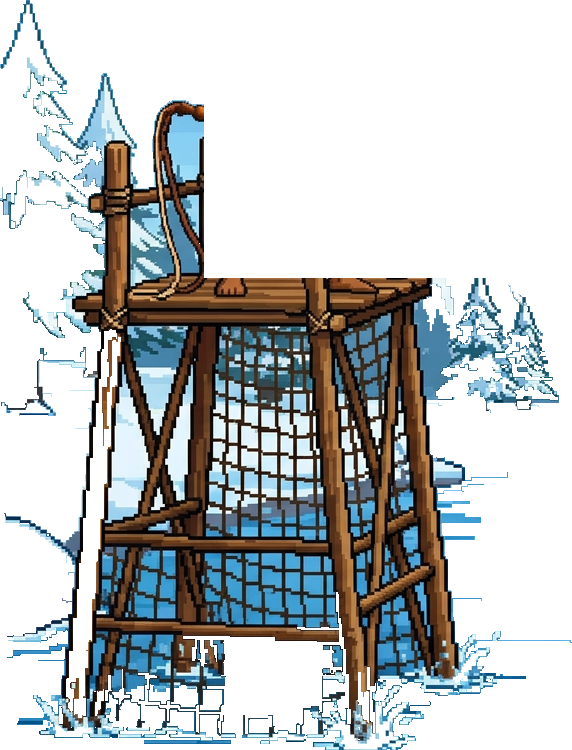
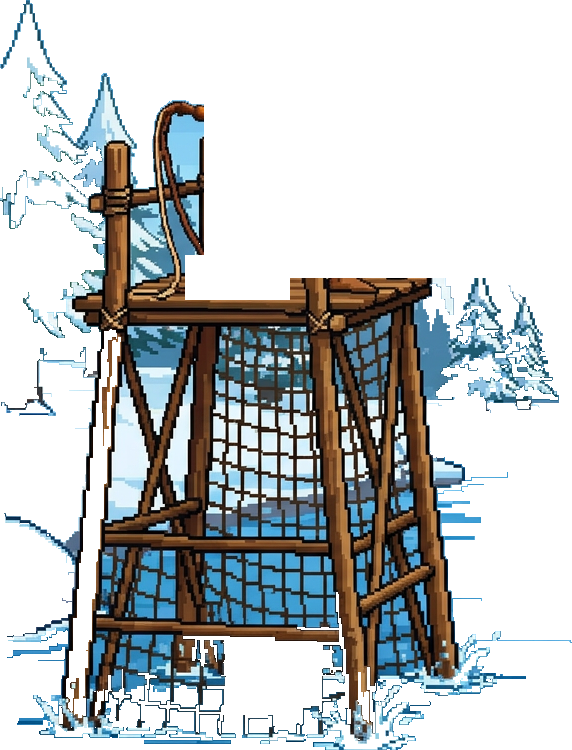
Polish pass: alignment, visibility, and per-wave playable backgrounds
Addresses a round of feedback from playing the recent art integrations
live:

- Fixed a real bug: player_tower.png's character-erasure box cut off a
  few pixels short, leaving two stray skin-toned foot fragments sitting
  on the platform surface. Erased directly, re-verified clean.
- Spear-to-reticle alignment: PLAYER_FIG_SPECS now carries each pose's
  actual measured throw angle (renderAngle) separate from its bucket-
  selection label. drawFigure() applies a small corrective rotation
  (target - renderAngle, capped +-20deg) around the same foot pivot the
  six-bucket system already uses, closing most of the gap between the
  sprite's baked-in angle and the true aim direction without
  reintroducing the "collapsing forward" look an uncapped version of
  this same rotation caused two commits back.
- Reticle redesign: replaced a plain 6px gold X with no outline (invisible
  against light/gold backgrounds) with a ring+ticks reticle drawn in a
  dark-halo-then-gold two-pass, the same idiom haloText() already uses.
- Pier bulk-up: cropped a net-braced leg section directly from
  player_tower.png (miner_pier_legs.png) and draw it under the pier's
  post, since the pier reference photo only showed a bare stick. Same
  source art, so the visual-family match is guaranteed rather than
  approximated.
- The big one: backgrounds are now the live PLAY scene, not just the
  WAVEINTRO card. drawSky() checks waveBackdrop() before SPR.sceneImg;
[…]

Changed region(s): [[0.2972, 0.3373, 0.5052, 0.3987]]

diff --git a/claimjumper/index.html b/claimjumper/index.html
@@ -128,10 +128,15 @@ function waveBackdrop(){
 // Loaded independently, same graceful-fallback spirit as SKINS/WAVE_BGS: if
 // either fails to load, drawFigure/drawPlatform fall back to their existing
 // rendering rather than breaking.
-const PLAYER_ART = { tower: null, pier: null };
+const PLAYER_ART = { tower: null, pier: null, pierLegs: null };
 (function loadPlayerArt(){
   const t = new Image(); t.onload = () => { PLAYER_ART.tower = t; }; t.src = 'assets/player_tower.png';
   const p = new Image(); p.onload = () => { PLAYER_ART.pier = p; }; p.src = 'assets/miner_pier.png';
+  // The pier reference photo only showed a bare post -- cropped from the
+  // SAME tower art (a net-braced leg section) to give it real structural
+  // weight instead of reading as a thin stick, per direction ("get it
+  // looking more like the fishing tower").
+  const pl = new Image(); pl.onload = () => { PLAYER_ART.pierLegs = pl; }; pl.src = 'assets/miner_pier_legs.png';
 })();
 
 // Six purpose-made angle-bucket poses for the player figure (superseding
@@ -144,13 +149,21 @@ const PLAYER_ART = { tower: null, pier: null };
 // 8-88 aim range, assigned by the set's naming order (up_soft -> shallowest,
 // down_steep -> steepest) rather than back-measuring the art's rendered
 // angle, which was too imprecise to trust at this scale.
+// renderAngle is that back-measurement anyway (hand-to-tip vector, degrees,
+// same convention as sp.angle) -- used only for the small corrective spear
+// rotation in drawFigure() below, not for bucket selection. The six poses'
+// own baked-in throw angle only spans roughly -14 to +26 degrees regardless
+// of which bucket, well short of the game's 8-88 range, so at extreme aim
+// angles the weapon reads as barely moving while the reticle sweeps the
+// full range -- the correction closes part of that gap without the whole
+// body swinging (capped, see drawFigure()).
 const PLAYER_FIG_SPECS = [
-  { file:'assets/figure_up_soft.png',   angle:8,  anchorX:195, anchorY:375 },
-  { file:'assets/figure_level.png',     angle:24, anchorX:212, anchorY:363 },
-  { file:'assets/figure_down_soft.png', angle:40, anchorX:222, anchorY:360 },
-  { file:'assets/figure_down_mid.png',  angle:56, anchorX:205, anchorY:352 },
-  { file:'assets/figure_down_hard.png', angle:72, anchorX:162, anchorY:347 },
-  { file:'assets/figure_down_steep.png',angle:88, anchorX:197, anchorY:352 },
+  { file:'assets/figure_up_soft.png',   angle:8,  anchorX:195, anchorY:375, renderAngle:-14 },
+  { file:'assets/figure_level.png',     angle:24, anchorX:212, anchorY:363, renderAngle:-3 },
+  { file:'assets/figure_down_soft.png', angle:40, anchorX:222, anchorY:360, renderAngle:7 },
+  { file:'assets/figure_down_mid.png',  angle:56, anchorX:205, anchorY:352, renderAngle:16 },
+  { file:'assets/figure_down_hard.png', angle:72, anchorX:162, anchorY:347, renderAngle:24 },
+  { file:'assets/figure_down_steep.png',angle:88, anchorX:197, anchorY:352, renderAngle:26 },
 ];
 const PLAYER_FIG_BUCKETS = [];
 (function loadPlayerFigBuckets(){
@@ -494,6 +507,7 @@ let G = {
   banner:null,
   portraitFlinch:0, // v4.1: repurposed as heartFlinch's backing timer (kept the field name stable, see drawHearts)
   continueT:0,
+  towerCx:65, towerRot:0, pierCx:370, pierRot:0,
 };
 let prevSpace = false, prevA = false;
 
@@ -525,6 +539,16 @@ function startWave(){
   G.spawnTimer = 30; G.spawned = 0;
   G.minerTimer = G.w.minerFirst*30;
   G.banner = null;
+  // Per-wave visual variety for the tower/pier art (position + a small
+  // tilt), so waves don't all look like the exact same photo with a
+  // different sky behind it -- per direction. Kept modest and re-rolled
+  // once per wave, not touching any of the actual gameplay coordinates
+  // (OBS_X, PLAYER_MIN/MAX, the miners' spawn tx range) so movement,
+  // spawning, and collision are unaffected -- only where the art is drawn.
+  G.towerCx = 65 + rnd(-8, 8);
+  G.towerRot = rnd(-6, 6) * D2R;
+  G.pierCx = 370 + rnd(-15, 15);
+  G.pierRot = rnd(-8, 8) * D2R;
   if (G.wave===6) G.vinegarSecondPlanned = Math.random()<0.15; // GDD §7.1 optional stretch
   G.mode='WAVEINTRO'; G.t=0;
 }
@@ -1215,6 +1239,15 @@ function drawSky(){
   // stretched independently distorted the scene's actual proportions. This
   // is one image at one uniform scale (the source crop's aspect ratio was
   // chosen to exactly match LW:LH, so there's no stretch in either axis).
+  // Per-wave background stills, now the live PLAY scene too (not just the
+  // WAVEINTRO card) -- each stage gets its own real backdrop rather than
+  // one fixed scene throughout. Checked before SPR.sceneImg so it takes
+  // over the exact same "whole scene in one image" role.
+  const bg = waveBackdrop();
+  if (bg){
+    ctx.drawImage(bg, 0, 0, LW, LH);
+    return;
+  }
   if (SPR.ready && SPR.sceneImg){
     ctx.drawImage(SPR.sceneImg, 0, 0, LW, LH);
     return;
@@ -1224,6 +1257,10 @@ function drawSky(){
   ctx.fillStyle = g; ctx.fillRect(0,0,LW,WATER_Y+4);
 }
 function drawCanyonWalls(){
+  // Skip the corner rock-wall accent over a per-wave photo backdrop -- it
+  // was shaped to complement the original scene's specific composition and
+  // would just sit as a mismatched wedge over these.
+  if (waveBackdrop()) return;
   ctx.fillStyle = PAL.rockMd;
   ctx.beginPath(); ctx.moveTo(0,0); ctx.lineTo(46,0); ctx.lineTo(20,38); ctx.lineTo(0,34); ctx.closePath(); ctx.fill();
   ctx.fillStyle = 'rgba(255,255,255,0.10)';
@@ -1238,7 +1275,7 @@ function drawCanyonWalls(){
 // dedicated water-only asset again.
 const BG_SCALE = 0.30;
 function drawWater(l, r, top, bot, t){
-  if (SPR.ready && SPR.sceneImg){
+  if (waveBackdrop() || (SPR.ready && SPR.sceneImg)){
     // scene backdrop already painted this region; nothing to fill
   } else if (SPR.ready && SPR.poolImg){
     ctx.drawImage(SPR.poolImg, l, top, r-l, bot-top);
@@ -1301,8 +1338,30 @@ function drawMinerPier(){
     const img = PLAYER_ART.pier;
     const anchorX = 61, anchorY = 23;
     const scale = 0.30;
-    const cx = 370;
-    ctx.drawImage(img, cx - anchorX * scale, WATER_Y - anchorY * scale, img.width * scale, img.height * scale);
+    // G.pierCx/pierRot: a small per-wave position+tilt roll (see
+    // startWave()), same idea as the tower's. Rotated around the plank's
+    // own anchor point so the miner (drawn separately at its fixed
+    // spawn/stand x) still reads as standing on it at this tilt.
+    ctx.save();
+    ctx.translate(G.pierCx, WATER_Y);
+    ctx.rotate(G.pierRot);
+    const postLocalX = -anchorX * scale, postLocalY = -anchorY * scale;
+    if (PLAYER_ART.pierLegs){
+      // Reused net-braced leg section from the tower art, continuing the
+      // post down toward the water so the pier reads as a real structure
+      // instead of a bare stick -- the pier reference photo only showed
+      // the post itself.
+      const legs = PLAYER_ART.pierLegs;
+      const legsScale = 0.28;
+      const legsAnchorX = 90, legsAnchorY = 0;
+      const postBottomX = 75, postBottomY = 172; // where the post exits this crop
+      const attachX = postLocalX + postBottomX * scale;
+      const attachY = postLocalY + postBottomY * scale;
+      ctx.drawImage(legs, attachX - legsAnchorX * legsScale, attachY - legsAnchorY * legsScale,
+        legs.width * legsScale, legs.height * legsScale);
+    }
+    ctx.drawImage(img, postLocalX, postLocalY, img.width * scale, img.height * scale);
+    ctx.restore();
     return;
   }
   const l = 338, r = 402, y = WATER_Y;
@@ -1328,8 +1387,15 @@ function drawPlatform(oy){
     const targetBottom = 226; // where the submerged base/splash should land
     const scale = (targetBottom - oy) / (img.height - anchorY);
     const dw = img.width * scale, dh = img.height * scale;
-    const cx = 65;
-    ctx.drawImage(img, cx - anchorX * scale, oy - anchorY * scale, dw, dh);
+    // G.towerCx/towerRot: a small per-wave position+tilt roll (see
+    // startWave()) so the tower doesn't look identical every wave. Rotated
+    // around the player's own foot point, not the image center, so the
+    // (separately-drawn, unrotated) player figure still lines up with it.
+    ctx.save();
+    ctx.translate(G.towerCx, oy);
+    ctx.rotate(G.towerRot);
+    ctx.drawImage(img, -anchorX * scale, -anchorY * scale, dw, dh);
+    ctx.restore();
     return;
   }
   // v3.0.5: fixed two problems flagged in review. (1) Scale was arbitrary
@@ -1426,7 +1492,19 @@ function drawFigure(ox, oy, braced, moving, aimAngle, spState, chargeK){
   if (figBucket && spriteEligible){
     const scale = 34 / 390; // matches the old sprite's ~34px-tall convention
     const dw = figBucket.img.width * scale, dh = figBucket.img.height * scale;
-    ctx.drawImage(figBucket.img, ox - figBucket.anchorX * scale, oy - figBucket.anchorY * scale, dw, dh);
+    // Small corrective rotation closing the gap between this bucket's own
+    // baked-in throw angle and the true current aim angle (see
+    // PLAYER_FIG_SPECS comment) -- capped at +-20deg, the range already
+    // confirmed clean (vs. a full uncapped delta, confirmed broken-looking)
+    // when this same rotate-around-the-planted-foot technique was tried
+    // for the single-pose predecessor of this bucket system.
+    const target = aimAngle !== undefined ? aimAngle : 48;
+    const correction = clamp(target - figBucket.renderAngle, -20, 20) * D2R;
+    ctx.save();
+    ctx.translate(ox, oy);
+    ctx.rotate(correction);
+    ctx.drawImage(figBucket.img, -figBucket.anchorX * scale, -figBucket.anchorY * scale, dw, dh);
+    ctx.restore();
     return;
   }
   if (SPR.ready && SPR.figImg && spriteEligible){
@@ -1493,6 +1571,28 @@ function drawFigure(ox, oy, braced, moving, aimAngle, spState, chargeK){
 // static extracted image is real work I didn't have budget for this pass,
 // so those keep the original procedural version, unchanged, exactly as
 // before. Only the plain spear (no buff) is upgraded.
+// Upgraded aim reticle -- a ring + four outward ticks, drawn twice (a dark
+// halo pass then the bright gold pass, same two-pass idiom as haloText())
+// so it reads against sky, water, and rock alike. Replaces a plain 6px
+// gold X with no halo, which disappeared against anything gold/light.
+function drawReticle(x, y){
+  const r = 4.5;
+  function pass(color, width){
+    ctx.strokeStyle = color; ctx.lineWidth = width;
+    ctx.beginPath(); ctx.arc(x, y, r, 0, Math.PI * 2); ctx.stroke();
+    ctx.beginPath();
+    ctx.moveTo(x - r - 4, y); ctx.lineTo(x - r + 1, y);
+    ctx.moveTo(x + r - 1, y); ctx.lineTo(x + r + 4, y);
+    ctx.moveTo(x, y - r - 4); ctx.lineTo(x, y - r + 1);
+    ctx.moveTo(x, y + r - 1); ctx.lineTo(x, y + r + 4);
+    ctx.stroke();
+  }
+  pass('rgba(20,14,8,0.8)', 3);
+  pass(PAL.gold, 1.4);
+  ctx.fillStyle = PAL.gold;
+  ctx.beginPath(); ctx.arc(x, y, 1, 0, Math.PI * 2); ctx.fill();
+}
+
 const SPEAR_BUFF_KEYS = ['quickhaft','ironhead','obsidianedge','leistertines','pitchtorch','searunline'];
 function drawSpear(x1, y1, x2, y2, headSize, buffA, buffB){
   const buffed = SPEAR_BUFF_KEYS.includes(buffA) || SPEAR_BUFF_KEYS.includes(buffB);
@@ -2051,8 +2151,7 @@ function drawPlay(){
     if (ex > LW){ ex = LW; ey = oy+(LW-ox)*Math.tan(a); }
     ctx.strokeStyle = 'rgba(43,29,16,0.55)'; ctx.lineWidth=1;
     dashedLine(ox+3, oy-6, ex, ey);
-    ctx.strokeStyle = PAL.gold; ctx.lineWidth=1.2;
-    ctx.beginPath(); ctx.moveTo(ex-3,ey-3); ctx.lineTo(ex+3,ey+3); ctx.moveTo(ex-3,ey+3); ctx.lineTo(ex+3,ey-3); ctx.stroke();
+    drawReticle(ex, ey);
   }
   if (sp.live){
     let n = Math.sqrt(sp.vx*sp.vx+sp.vy*sp.vy); if (n===0) n=1;

diff --git a/claimjumper/DESIGN.md b/claimjumper/DESIGN.md
@@ -178,6 +178,77 @@ anchored at the plank's near top corner and centered on the same x the old
 procedural pier occupied. Verified with a real miner standing on it: feet
 land cleanly on the plank, no positioning mismatch, no console errors.
 
+## Polish round: alignment, visibility, and per-wave scenes
+
+A round of feedback after playing the art integrations live, addressed
+together:
+
+**Tower ghost-feet fix.** `player_tower.png`'s original character-erasure
+box (from the very first extraction pass) cut off a few pixels short of
+the actual feet, leaving two small skin-toned fragments sitting on the
+platform surface — visible as stray feet from "someone" who wasn't there.
+Found by cropping and checkering the exact region, erased directly, and
+the asset re-verified clean end to end.
+
+**Spear-to-reticle alignment.** `PLAYER_FIG_SPECS` now also carries
+`renderAngle` — each pose's own actual baked-in throw angle (roughly hand-
+to-tip, measured by inspection), separate from `angle` (the assigned
+bucket-selection label spread across 8-88). The six poses' real angles
+only span about -14 to +26 degrees regardless of bucket, well short of
+the game's range, so at extreme aim the weapon barely visually moves while
+the reticle sweeps the full 80 degrees. `drawFigure()` now applies a small
+corrective rotation — `target angle - bucket.renderAngle`, capped at
+±20° — around the same planted-foot pivot already used for the six-bucket
+system. The cap matters: an *uncapped* rotation is exactly the
+single-pose-plus-rotation approach two commits back that read as the
+character collapsing forward: ±20° is comfortably inside the ±15° that
+was already confirmed clean, only reached at the largest realistic
+residuals.
+
+**Reticle redesign.** The old aim mark was a plain 6px gold X with no
+outline — invisible against anything gold or light. `drawReticle()`
+(new, by `drawSpear()`) draws a ring + four outward ticks in two passes —
+a dark halo then bright gold, the same two-pass idiom `haloText()` already
+uses for on-screen text — so it reads against sky, water, and rock alike.
+
+**Pier bulk-up.** The pier reference photo only showed a bare post, which
+read as much thinner than the tower even after scaling. Rather than
+invent structure that isn't in the source, cropped a net-braced leg
+section directly from `player_tower.png` (`miner_pier_legs.png`) and draw
+it under the post, continuing it down toward the water — guaranteed
+visual-family match since it's literally the same source art, not just a
+similar style.
+
+**Backgrounds are now the live `PLAY` scene, not just `WAVEINTRO`.**
+Reverses the caveat two sections up. `drawSky()` now checks
+`waveBackdrop()` before `SPR.sceneImg`, and since `drawPlay()` already
+calls `drawSky()` first, this was the entire change needed to make each
+wave's background the actual playing field — `drawWater()`'s existing
+"scene backdrop already painted this region" skip (previously keyed only
+off `SPR.sceneImg`) now also recognizes `waveBackdrop()`, and
+`drawCanyonWalls()`'s corner rock-accent (shaped for the *original*
+scene's specific composition) is skipped when a wave backdrop is active,
+since it would just sit as a mismatched wedge over a different photo.
+Checked the water-line position in all five background images against
+`WATER_Y` first — all close enough that fish/miners/platform/tower still
+read as grounded in the new water. Verified: waves 2 and 4 render visibly
+distinct real backgrounds during actual `PLAY`, not just their intro
+cards.
+
+**Per-wave tower/pier position + tilt.** `startWave()` now rolls
+`G.towerCx`/`G.towerRot` (±8px / ±6°) and `G.pierCx`/`G.pierRot` (±15px /
+±8°) once per wave. `drawPlatform()`/`drawMinerPier()` rotate around each
+structure's own anchor point (the player's planted foot for the tower, the
+plank's near corner for the pier) rather than the image's own center, so
+the player/miner — drawn separately, deliberately *not* rotated — still
+reads as standing on the tilted structure instead of floating off it.
+Deliberately does not touch any actual gameplay coordinate (`OBS_X`,
+`PLAYER_MIN`/`PLAYER_MAX`, the miners' spawn `tx` range) — only where the
+art is drawn, so movement, spawning, and hit-detection are unaffected.
+Verified via real wave progression (not just direct state edits): waves 1
+and 2 land on genuinely different rolled positions/rotations, and a miner
+placed on wave 2's repositioned pier still stands on it correctly.
+
 ## Remaining assets
 
 `claimjumper-images/qr.png` (the end-panel QR code) is in place — decodes
